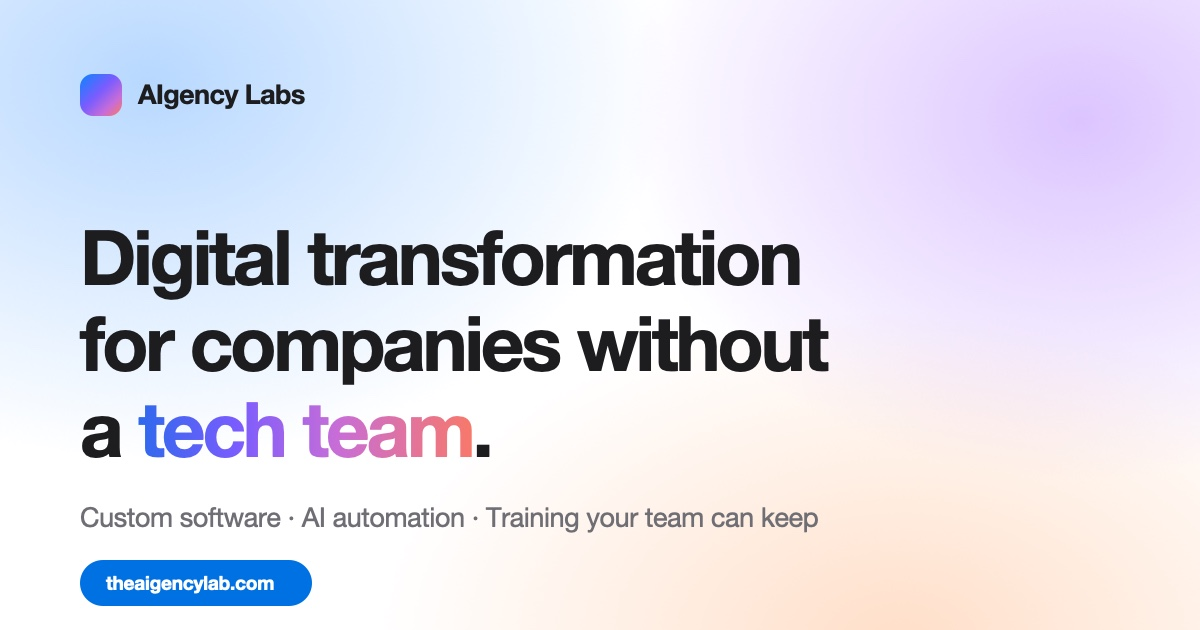
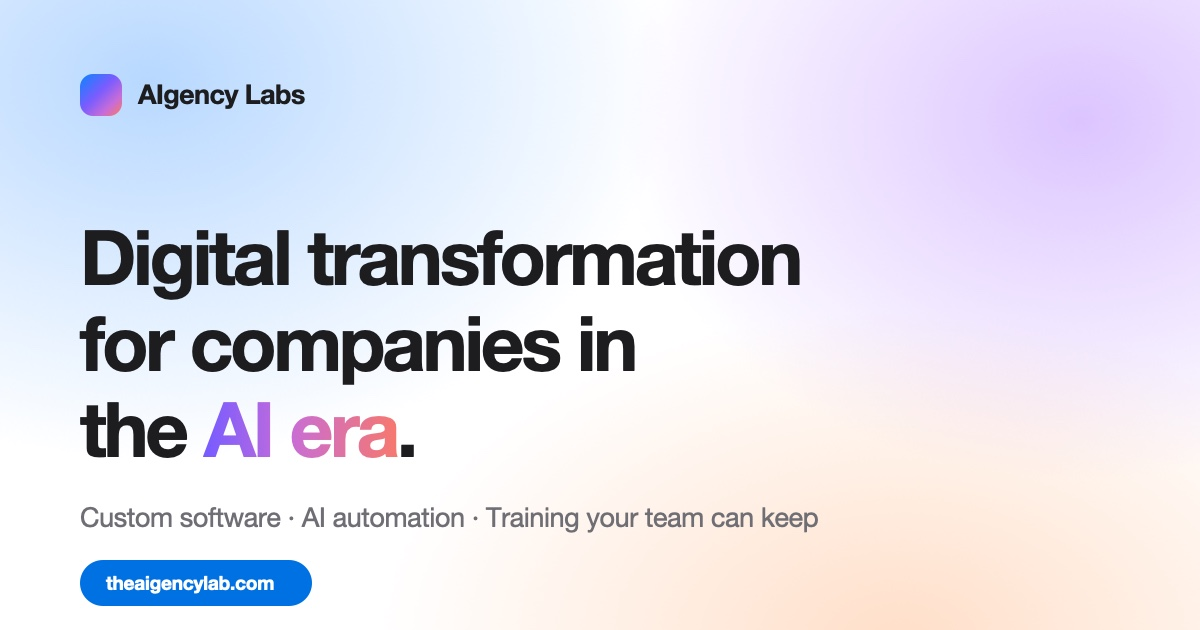
Reposition around the AI era
The hero, title, meta description, social tags and Organization schema now
lead with "Digital transformation for companies in the AI era" instead of
"for companies without a tech team". The tech-team idea survives in the
supporting sentence, where it reads as a differentiator rather than the
headline claim.

Regenerated og.jpg from og.svg so the share card matches, with the gradient
now falling on "AI era". Also fixes a stale image alt on the academy page.

Changed region(s): [[0.0617, 0.6333, 0.4317, 0.7238], [0.4625, 0.4825, 0.7092, 0.6032]]

diff --git a/index.html b/index.html
@@ -5,8 +5,8 @@
 <meta name="viewport" content="width=device-width,initial-scale=1,viewport-fit=cover" />
 <meta name="theme-color" content="#ffffff" media="(prefers-color-scheme: light)" />
 <meta name="theme-color" content="#000000" media="(prefers-color-scheme: dark)" />
-<title>AIgency Labs · Digital transformation for non-technical teams</title>
-<meta name="description" content="Digital transformation for companies without a tech team: custom software, AI automation, and training your own people can keep. NYC, México City, Madrid." />
+<title>AIgency Labs · Digital transformation for the AI era</title>
+<meta name="description" content="Digital transformation for companies in the AI era: custom software, AI automation, and training your own people can keep. NYC, México City, Madrid." />
 <link rel="canonical" href="https://theaigencylab.com/" />
 <meta name="robots" content="index,follow,max-image-preview:large,max-snippet:-1,max-video-preview:-1" />
 
@@ -14,14 +14,14 @@
 <meta property="og:site_name" content="AIgency Labs" />
 <meta property="og:locale" content="en_US" />
 <meta property="og:url" content="https://theaigencylab.com/" />
-<meta property="og:title" content="AIgency Labs · Digital transformation for companies without a tech team" />
+<meta property="og:title" content="AIgency Labs · Digital transformation for companies in the AI era" />
 <meta property="og:description" content="Custom software, AI automation, and training your team can keep. Studios in New York City, México City and Madrid, working in English and Spanish." />
 <meta property="og:image" content="https://theaigencylab.com/og.jpg" />
 <meta property="og:image:width" content="1200" />
 <meta property="og:image:height" content="630" />
-<meta property="og:image:alt" content="AIgency Labs: digital transformation for companies without a tech team" />
+<meta property="og:image:alt" content="AIgency Labs: digital transformation for companies in the AI era" />
 <meta name="twitter:card" content="summary_large_image" />
-<meta name="twitter:title" content="AIgency Labs · Digital transformation for companies without a tech team" />
+<meta name="twitter:title" content="AIgency Labs · Digital transformation for companies in the AI era" />
 <meta name="twitter:description" content="Custom software, AI automation, and training your team can keep. Studios in New York City, México City and Madrid." />
 <meta name="twitter:image" content="https://theaigencylab.com/og.jpg" />
 
@@ -570,7 +570,7 @@
       "url": "https://theaigencylab.com/",
       "logo": "https://theaigencylab.com/og.jpg",
       "image": "https://theaigencylab.com/og.jpg",
-      "description": "AIgency Labs guides non-technical companies through digital transformation: custom software, AI automation, custom skills for AI agents, technology consultancy, and an AI academy that trains a client's own team.",
+      "description": "AIgency Labs guides companies through digital transformation in the AI era: custom software, AI automation, custom skills for AI agents, technology consultancy, and an AI academy that trains a client's own team.",
       "slogan": "We don't sell AI. We sell leverage.",
       "knowsLanguage": ["en", "es"],
       "areaServed": [
@@ -603,7 +603,7 @@
       "@type": "WebPage",
       "@id": "https://theaigencylab.com/#webpage",
       "url": "https://theaigencylab.com/",
-      "name": "AIgency Labs · Digital transformation for companies without a tech team",
+      "name": "AIgency Labs · Digital transformation for companies in the AI era",
       "description": "Custom software, AI automation, and training your team can keep.",
       "isPartOf": { "@id": "https://theaigencylab.com/#website" },
       "about": { "@id": "https://theaigencylab.com/#organization" },
@@ -673,7 +673,7 @@
     </h1>
 
     <p class="sub">
-      Digital transformation for companies without a tech team. We build the software, automate the busywork, and train your people to run it. All of it in plain language.
+      Digital transformation for companies in the AI era. We build the software, automate the busywork, and train your people to run it. All of it in plain language.
     </p>
 
     <div class="hero-cta">

diff --git a/academy.html b/academy.html
@@ -19,7 +19,7 @@
 <meta property="og:image" content="https://theaigencylab.com/og.jpg" />
 <meta property="og:image:width" content="1200" />
 <meta property="og:image:height" content="630" />
-<meta property="og:image:alt" content="AIgency Labs: digital transformation for companies without a tech team" />
+<meta property="og:image:alt" content="AIgency Labs: digital transformation for companies in the AI era" />
 <meta name="twitter:card" content="summary_large_image" />
 <meta name="twitter:title" content="AI Academy · Four-week AI training for non-technical teams" />
 <meta name="twitter:description" content="One shipped skill per person in four weeks. Delivered in English or Spanish." />
